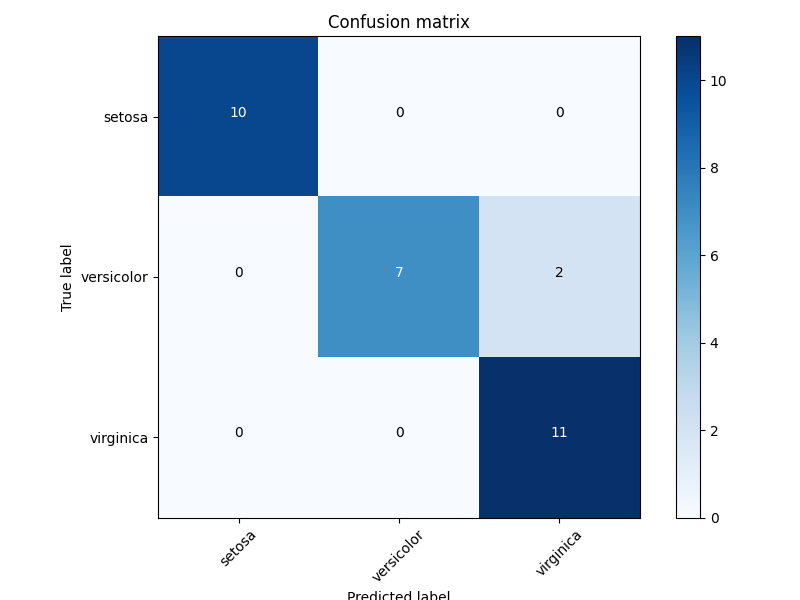
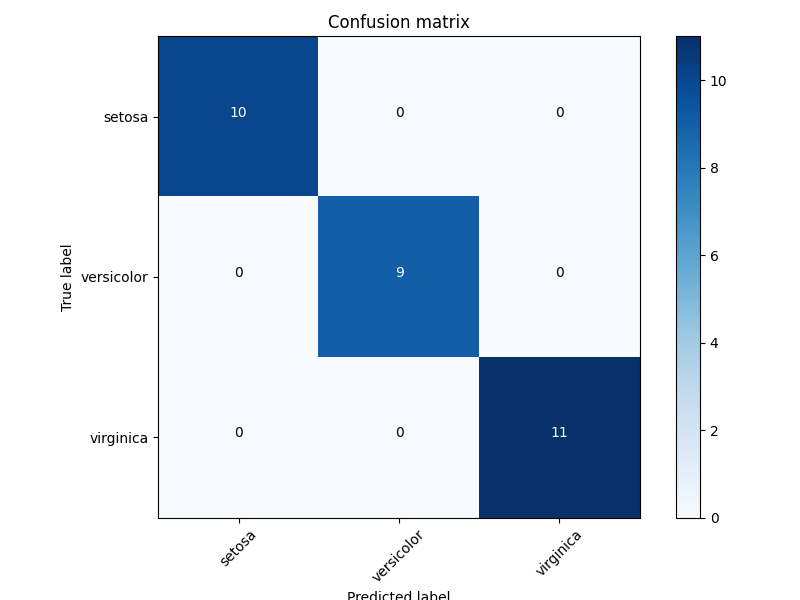
plot diff

Changed region(s): [[0.375, 0.3, 0.8125, 0.6]]

diff --git a/dvc_plots/index.html b/dvc_plots/index.html
@@ -31,11 +31,20 @@
                     <img src="static/workspace_reports_confusion_matrix.png">
                 </div>
                 
+
+                <div
+                    style="border:1px dotted black;margin:2px;display:
+                    inline-block;
+                    overflow:hidden;margin-left:8px;">
+                    <p>HEAD</p>
+                    <img src="static/HEAD_reports_confusion_matrix.png">
+                </div>
+                
         </div>
 
     <div id = "reports_confusion_matrix_data_csv">
         <script type = "text/javascript">
-            var spec = {"$schema": "https://vega.github.io/schema/vega-lite/v4.json", "data": {"values": [{"y_true": "versicolor", "predicted": "versicolor", "rev": "workspace"}, {"y_true": "setosa", "predicted": "setosa", "rev": "workspace"}, {"y_true": "virginica", "predicted": "virginica", "rev": "workspace"}, {"y_true": "versicolor", "predicted": "versicolor", "rev": "workspace"}, {"y_true": "versicolor", "predicted": "virginica", "rev": "workspace"}, {"y_true": "setosa", "predicted": "setosa", "rev": "workspace"}, {"y_true": "versicolor", "predicted": "versicolor", "rev": "workspace"}, {"y_true": "virginica", "predicted": "virginica", "rev": "workspace"}, {"y_true": "versicolor", "predicted": "versicolor", "rev": "workspace"}, {"y_true": "versicolor", "predicted": "versicolor", "rev": "workspace"}, {"y_true": "virginica", "predicted": "virginica", "rev": "workspace"}, {"y_true": "setosa", "predicted": "setosa", "rev": "workspace"}, {"y_true": "setosa", "predicted": "setosa", "rev": "workspace"}, {"y_true": "setosa", "predicted": "setosa", "rev": "workspace"}, {"y_true": "setosa", "predicted": "setosa", "rev": "workspace"}, {"y_true": "versicolor", "predicted": "virginica", "rev": "workspace"}, {"y_true": "virginica", "predicted": "virginica", "rev": "workspace"}, {"y_true": "versicolor", "predicted": "versicolor", "rev": "workspace"}, {"y_true": "versicolor", "predicted": "versicolor", "rev": "workspace"}, {"y_true": "virginica", "predicted": "virginica", "rev": "workspace"}, {"y_true": "setosa", "predicted": "setosa", "rev": "workspace"}, {"y_true": "virginica", "predicted": "virginica", "rev": "workspace"}, {"y_true": "setosa", "predicted": "setosa", "rev": "workspace"}, {"y_true": "virginica", "predicted": "virginica", "rev": "workspace"}, {"y_true": "virginica", "predicted": "virginica", "rev": "workspace"}, {"y_true": "virginica", "predicted": "virginica", "rev": "workspace"}, {"y_true": "virginica", "predicted": "virginica", "rev": "workspace"}, {"y_true": "virginica", "predicted": "virginica", "rev": "workspace"}, {"y_true": "setosa", "predicted": "setosa", "rev": "workspace"}, {"y_true": "setosa", "predicted": "setosa", "rev": "workspace"}]}, "title": "reports/confusion_matrix_data.csv", "facet": {"field": "rev", "type": "nominal"}, "spec": {"transform": [{"aggregate": [{"op": "count", "as": "xy_count"}], "groupby": ["y_true", "predicted"]}, {"impute": "xy_count", "groupby": ["rev", "y_true"], "key": "predicted", "value": 0}, {"impute": "xy_count", "groupby": ["rev", "predicted"], "key": "y_true", "value": 0}, {"joinaggregate": [{"op": "max", "field": "xy_count", "as": "max_count"}], "groupby": []}, {"calculate": "datum.xy_count / datum.max_count", "as": "percent_of_max"}], "encoding": {"x": {"field": "predicted", "type": "nominal", "sort": "ascending", "title": "predicted"}, "y": {"field": "y_true", "type": "nominal", "sort": "ascending", "title": "y_true"}}, "layer": [{"mark": "rect", "width": 300, "height": 300, "encoding": {"color": {"field": "xy_count", "type": "quantitative", "title": "", "scale": {"domainMin": 0, "nice": true}}}}, {"mark": "text", "encoding": {"text": {"field": "xy_count", "type": "quantitative"}, "color": {"condition": {"test": "datum.percent_of_max > 0.5", "value": "white"}, "value": "black"}}}]}};
+            var spec = {"$schema": "https://vega.github.io/schema/vega-lite/v4.json", "data": {"values": [{"y_true": "versicolor", "predicted": "versicolor", "rev": "workspace"}, {"y_true": "setosa", "predicted": "setosa", "rev": "workspace"}, {"y_true": "virginica", "predicted": "virginica", "rev": "workspace"}, {"y_true": "versicolor", "predicted": "versicolor", "rev": "workspace"}, {"y_true": "versicolor", "predicted": "versicolor", "rev": "workspace"}, {"y_true": "setosa", "predicted": "setosa", "rev": "workspace"}, {"y_true": "versicolor", "predicted": "versicolor", "rev": "workspace"}, {"y_true": "virginica", "predicted": "virginica", "rev": "workspace"}, {"y_true": "versicolor", "predicted": "versicolor", "rev": "workspace"}, {"y_true": "versicolor", "predicted": "versicolor", "rev": "workspace"}, {"y_true": "virginica", "predicted": "virginica", "rev": "workspace"}, {"y_true": "setosa", "predicted": "setosa", "rev": "workspace"}, {"y_true": "setosa", "predicted": "setosa", "rev": "workspace"}, {"y_true": "setosa", "predicted": "setosa", "rev": "workspace"}, {"y_true": "setosa", "predicted": "setosa", "rev": "workspace"}, {"y_true": "versicolor", "predicted": "versicolor", "rev": "workspace"}, {"y_true": "virginica", "predicted": "virginica", "rev": "workspace"}, {"y_true": "versicolor", "predicted": "versicolor", "rev": "workspace"}, {"y_true": "versicolor", "predicted": "versicolor", "rev": "workspace"}, {"y_true": "virginica", "predicted": "virginica", "rev": "workspace"}, {"y_true": "setosa", "predicted": "setosa", "rev": "workspace"}, {"y_true": "virginica", "predicted": "virginica", "rev": "workspace"}, {"y_true": "setosa", "predicted": "setosa", "rev": "workspace"}, {"y_true": "virginica", "predicted": "virginica", "rev": "workspace"}, {"y_true": "virginica", "predicted": "virginica", "rev": "workspace"}, {"y_true": "virginica", "predicted": "virginica", "rev": "workspace"}, {"y_true": "virginica", "predicted": "virginica", "rev": "workspace"}, {"y_true": "virginica", "predicted": "virginica", "rev": "workspace"}, {"y_true": "setosa", "predicted": "setosa", "rev": "workspace"}, {"y_true": "setosa", "predicted": "setosa", "rev": "workspace"}, {"y_true": "versicolor", "predicted": "versicolor", "rev": "HEAD"}, {"y_true": "setosa", "predicted": "setosa", "rev": "HEAD"}, {"y_true": "virginica", "predicted": "virginica", "rev": "HEAD"}, {"y_true": "versicolor", "predicted": "versicolor", "rev": "HEAD"}, {"y_true": "versicolor", "predicted": "virginica", "rev": "HEAD"}, {"y_true": "setosa", "predicted": "setosa", "rev": "HEAD"}, {"y_true": "versicolor", "predicted": "versicolor", "rev": "HEAD"}, {"y_true": "virginica", "predicted": "virginica", "rev": "HEAD"}, {"y_true": "versicolor", "predicted": "versicolor", "rev": "HEAD"}, {"y_true": "versicolor", "predicted": "versicolor", "rev": "HEAD"}, {"y_true": "virginica", "predicted": "virginica", "rev": "HEAD"}, {"y_true": "setosa", "predicted": "setosa", "rev": "HEAD"}, {"y_true": "setosa", "predicted": "setosa", "rev": "HEAD"}, {"y_true": "setosa", "predicted": "setosa", "rev": "HEAD"}, {"y_true": "setosa", "predicted": "setosa", "rev": "HEAD"}, {"y_true": "versicolor", "predicted": "virginica", "rev": "HEAD"}, {"y_true": "virginica", "predicted": "virginica", "rev": "HEAD"}, {"y_true": "versicolor", "predicted": "versicolor", "rev": "HEAD"}, {"y_true": "versicolor", "predicted": "versicolor", "rev": "HEAD"}, {"y_true": "virginica", "predicted": "virginica", "rev": "HEAD"}, {"y_true": "setosa", "predicted": "setosa", "rev": "HEAD"}, {"y_true": "virginica", "predicted": "virginica", "rev": "HEAD"}, {"y_true": "setosa", "predicted": "setosa", "rev": "HEAD"}, {"y_true": "virginica", "predicted": "virginica", "rev": "HEAD"}, {"y_true": "virginica", "predicted": "virginica", "rev": "HEAD"}, {"y_true": "virginica", "predicted": "virginica", "rev": "HEAD"}, {"y_true": "virginica", "predicted": "virginica", "rev": "HEAD"}, {"y_true": "virginica", "predicted": "virginica", "rev": "HEAD"}, {"y_true": "setosa", "predicted": "setosa", "rev": "HEAD"}, {"y_true": "setosa", "predicted": "setosa", "rev": "HEAD"}]}, "title": "reports/confusion_matrix_data.csv", "facet": {"field": "rev", "type": "nominal"}, "spec": {"transform": [{"aggregate": [{"op": "count", "as": "xy_count"}], "groupby": ["y_true", "predicted"]}, {"impute": "xy_count", "groupby": ["rev", "y_true"], "key": "predicted", "value": 0}, {"impute": "xy_count", "groupby": ["rev", "predicted"], "key": "y_true", "value": 0}, {"joinaggregate": [{"op": "max", "field": "xy_count", "as": "max_count"}], "groupby": []}, {"calculate": "datum.xy_count / datum.max_count", "as": "percent_of_max"}], "encoding": {"x": {"field": "predicted", "type": "nominal", "sort": "ascending", "title": "predicted"}, "y": {"field": "y_true", "type": "nominal", "sort": "ascending", "title": "y_true"}}, "layer": [{"mark": "rect", "width": 300, "height": 300, "encoding": {"color": {"field": "xy_count", "type": "quantitative", "title": "", "scale": {"domainMin": 0, "nice": true}}}}, {"mark": "text", "encoding": {"text": {"field": "xy_count", "type": "quantitative"}, "color": {"condition": {"test": "datum.percent_of_max > 0.5", "value": "white"}, "value": "black"}}}]}};
             vegaEmbed('#reports_confusion_matrix_data_csv', spec);
         </script>
     </div>
